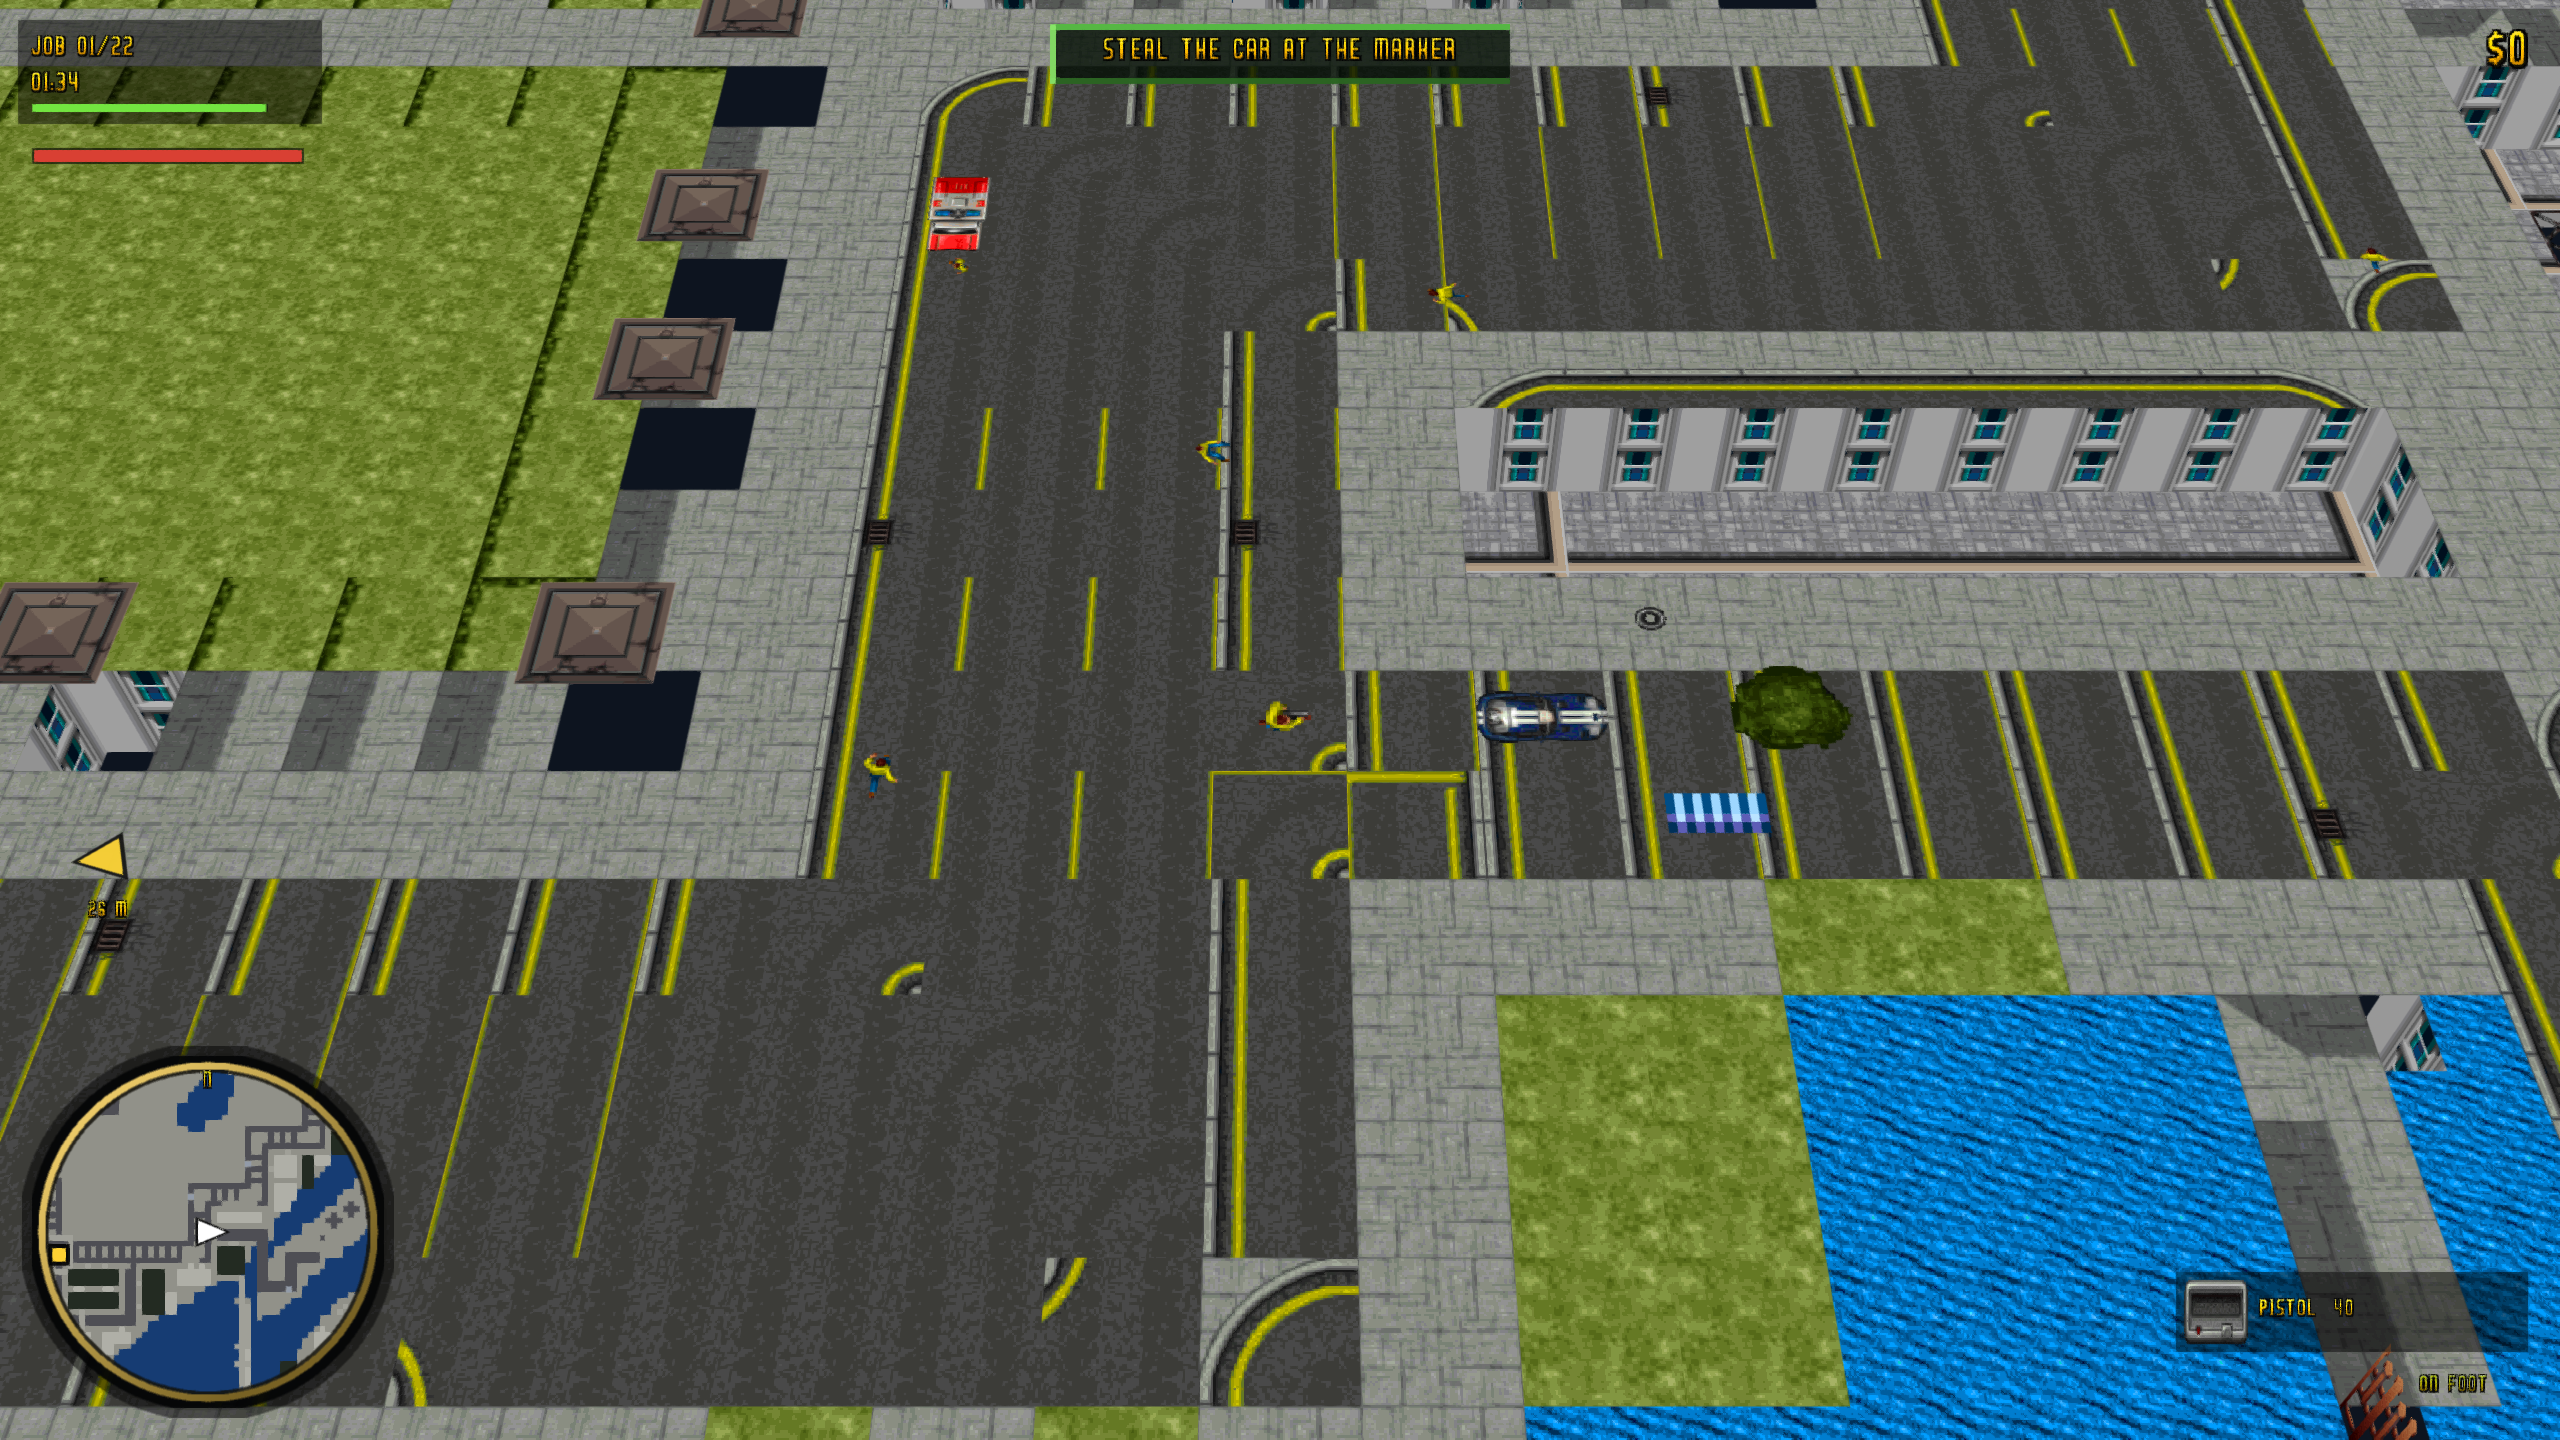
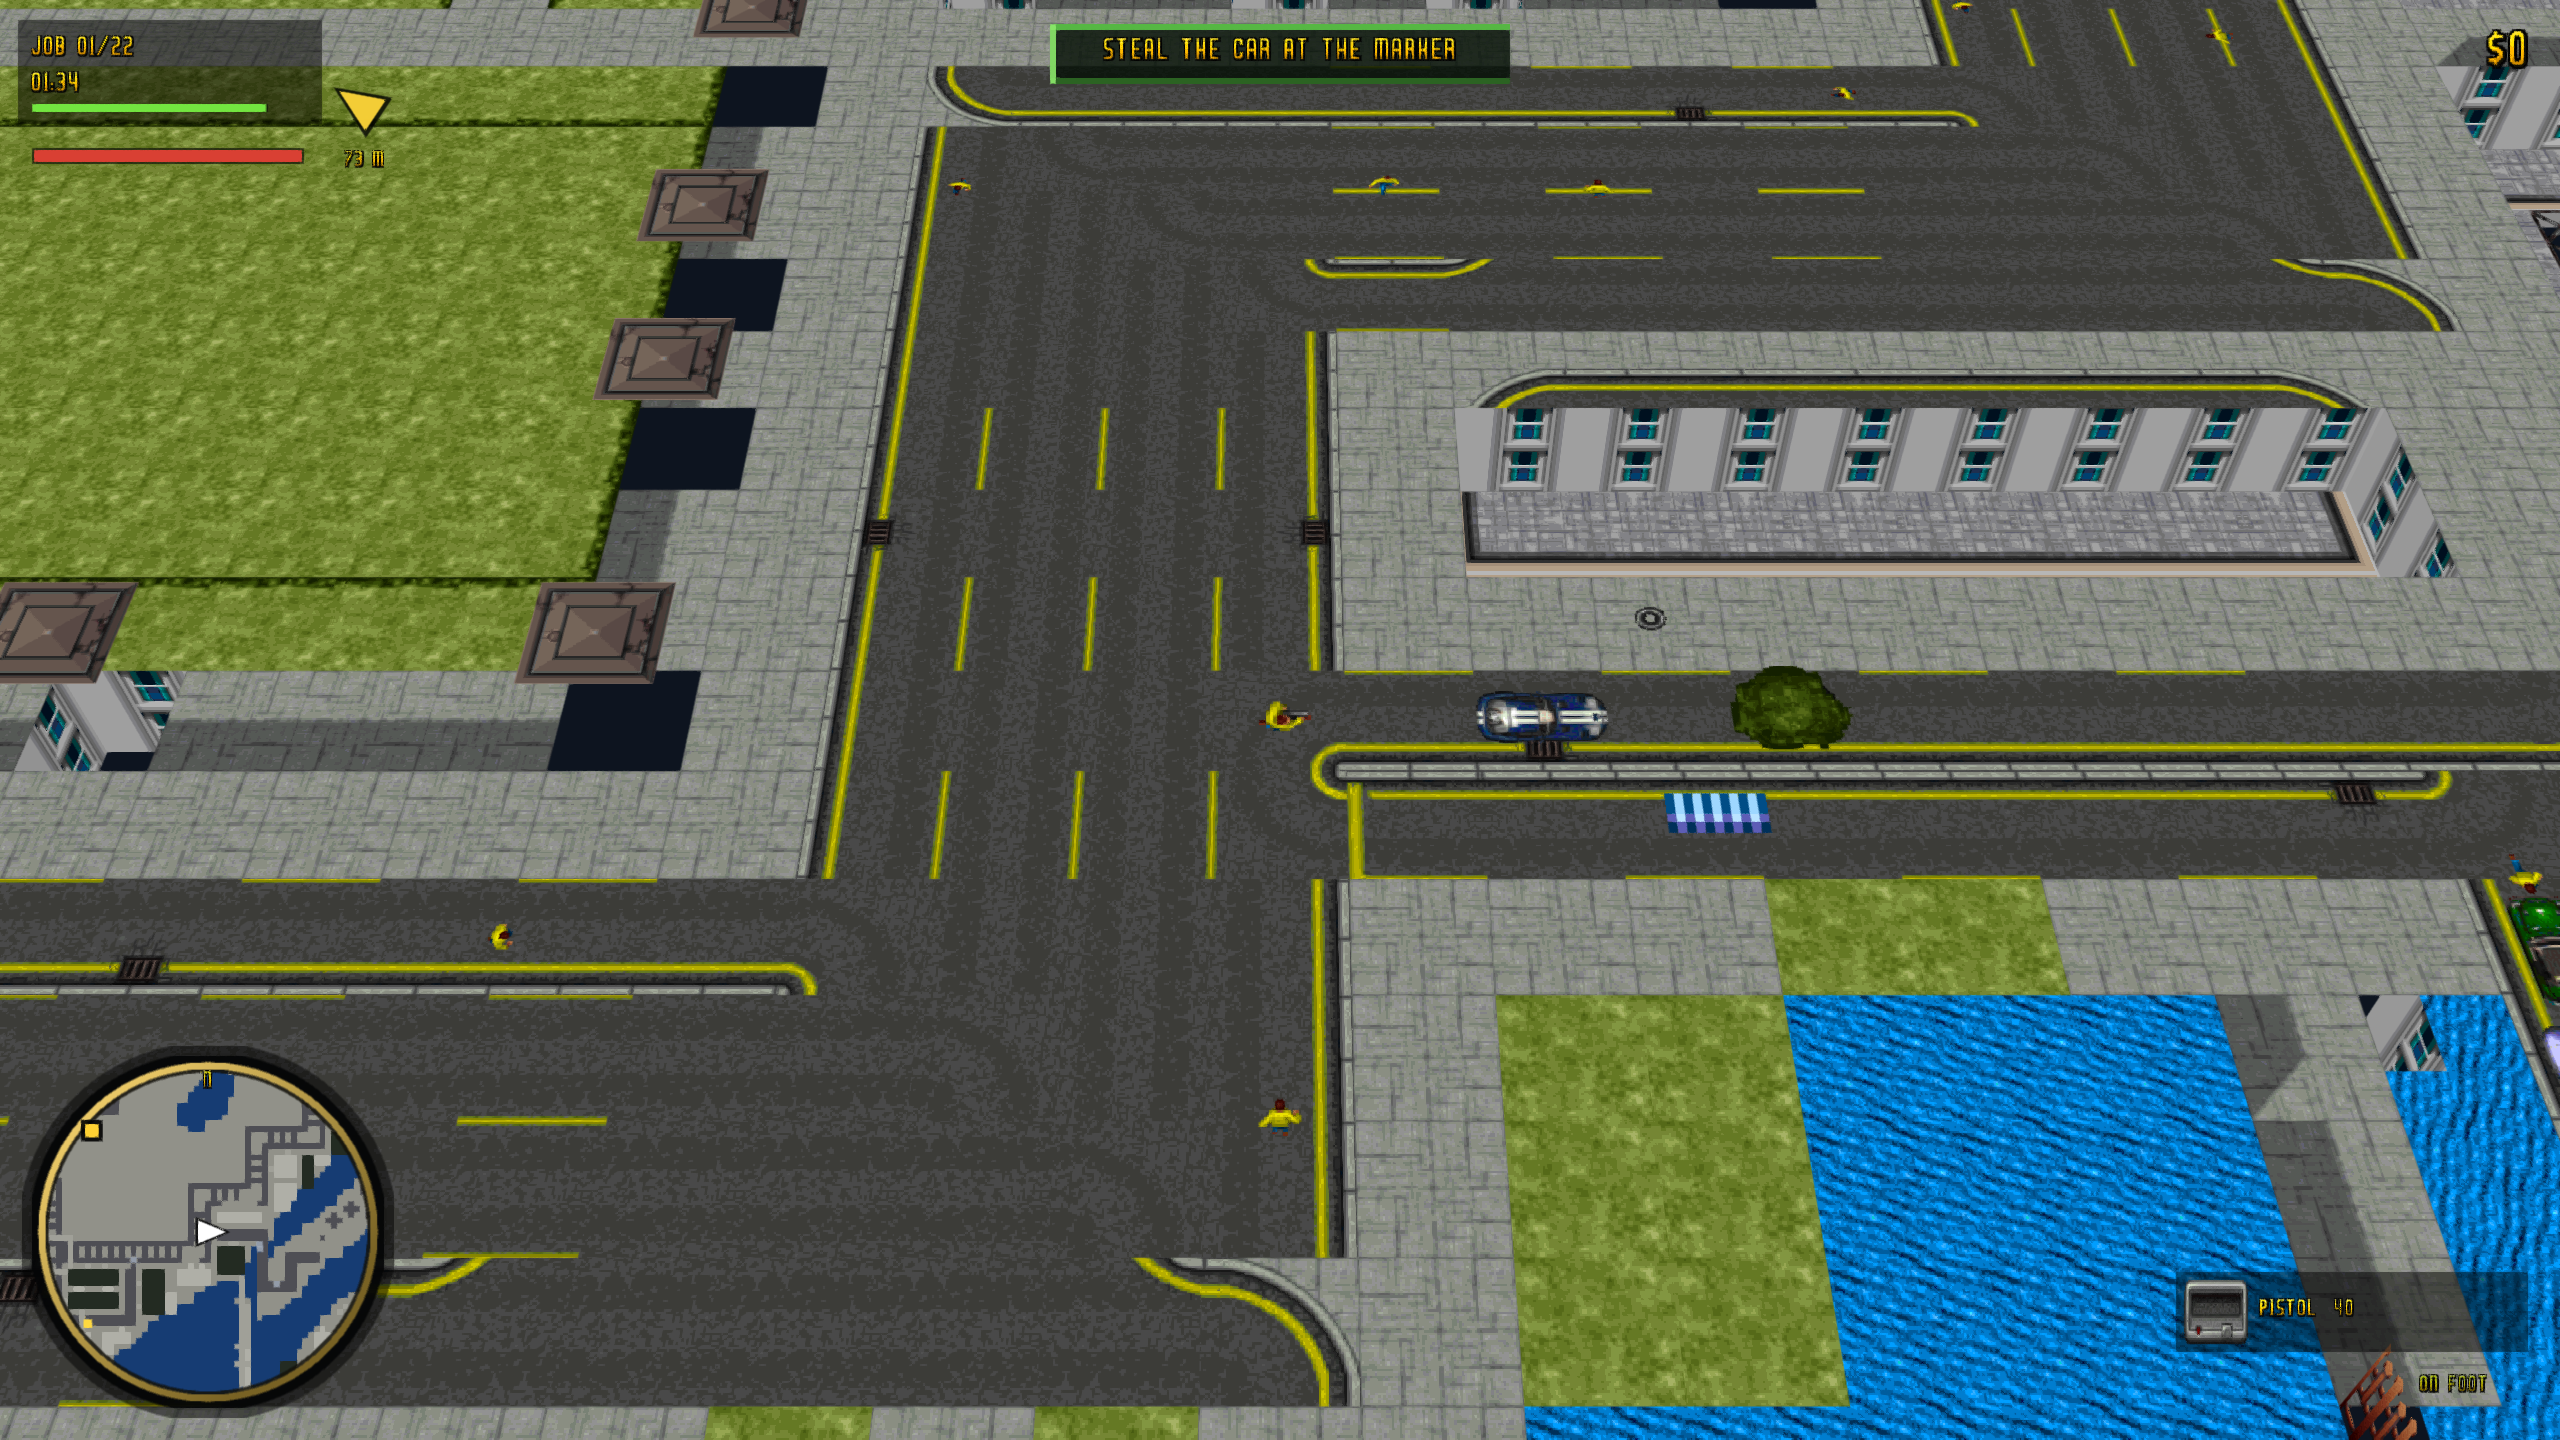
Fix CMP lid texture rotation (roads, lane markings and curbs)

diff --git a/src/game/world.cpp b/src/game/world.cpp
@@ -298,6 +298,35 @@ bool World::buildChunk(int cx, int cy, std::vector<CityVertex>& vertices,
                 uv, r, g, b, transparent);
     };
 
+    // Horizontal map tiles are rotated in 90-degree steps by the two rotation
+    // bits in typeMap.  Vertex order here is north-west, north-east,
+    // south-east, south-west.  GTA1's stored rotation is measured against a
+    // texture whose north edge points east, hence the extra +1 quarter turn;
+    // without it lane markings and corner curbs end up at right angles to the
+    // roads (the "asset salad" look).
+    auto addLid = [&](const Vec3& p0, const Vec3& p1, const Vec3& p2,
+                      const Vec3& p3, const TileUV& uv, int rotation,
+                      bool transparent) {
+        std::vector<uint32_t>& index =
+            transparent ? alphaIndex : opaqueIndex;
+        const float us[4] = {uv.u0, uv.u1, uv.u1, uv.u0};
+        const float vs[4] = {uv.v0, uv.v0, uv.v1, uv.v1};
+        const Vec3* points[4] = {&p0, &p1, &p2, &p3};
+        const uint32_t base = static_cast<uint32_t>(vertices.size());
+        for (int i = 0; i < 4; ++i) {
+            const int corner = (i - rotation + 1) & 3;
+            const Vec3& p = *points[i];
+            vertices.push_back({p.x, p.y, p.z, us[corner], vs[corner], 1.0f,
+                                1.0f, 1.0f, 1.0f});
+        }
+        index.push_back(base + 0);
+        index.push_back(base + 1);
+        index.push_back(base + 2);
+        index.push_back(base + 0);
+        index.push_back(base + 2);
+        index.push_back(base + 3);
+    };
+
     auto blockAtOrNull = [&](int x, int y, int z) -> const MapBlock* {
         if (x < 0 || y < 0 || x >= CityMap::kSize || y >= CityMap::kSize)
             return nullptr;
@@ -359,16 +388,13 @@ bool World::buildChunk(int cx, int cy, std::vector<CityVertex>& vertices,
                 const float y1 = y0 + 1.0f;
 
                 if (block->lid) {
-                    TileUV uv = assets.lidUV(block->lid);
+                    const TileUV uv = assets.lidUV(block->lid);
                     // Only draw textures that actually exist in the archive;
                     // inventing a fallback here hides the real city layout.
                     if (uv.u1 > uv.u0) {
-                        const float v = uv.v0;
-                        uv.v0 = uv.v1;
-                        uv.v1 = v;
-                        add(Vec3{x0, y1, z0}, Vec3{x1, y1, z0},
-                            Vec3{x1, y1, z1}, Vec3{x0, y1, z1}, uv, 1.0f,
-                            1.0f, 1.0f, flat);
+                        addLid(Vec3{x0, y1, z0}, Vec3{x1, y1, z0},
+                               Vec3{x1, y1, z1}, Vec3{x0, y1, z1}, uv,
+                               static_cast<int>(block->rotation()), flat);
                     }
                 }
 
